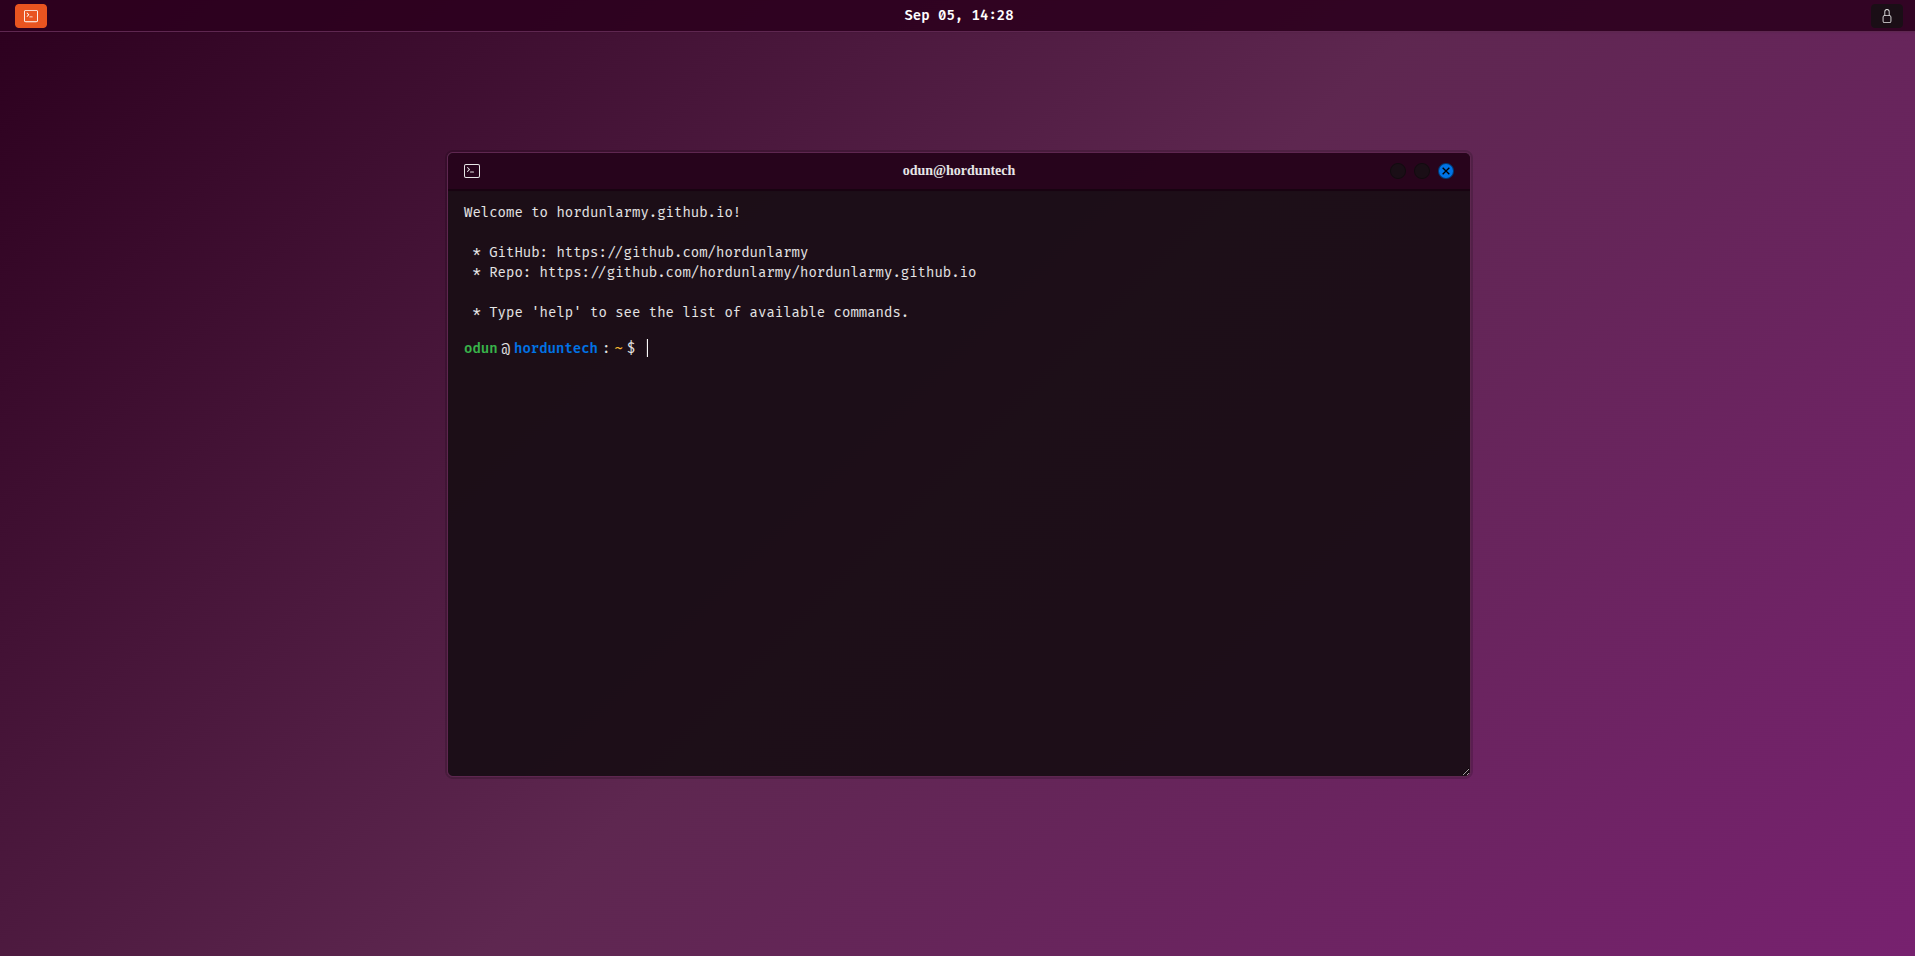
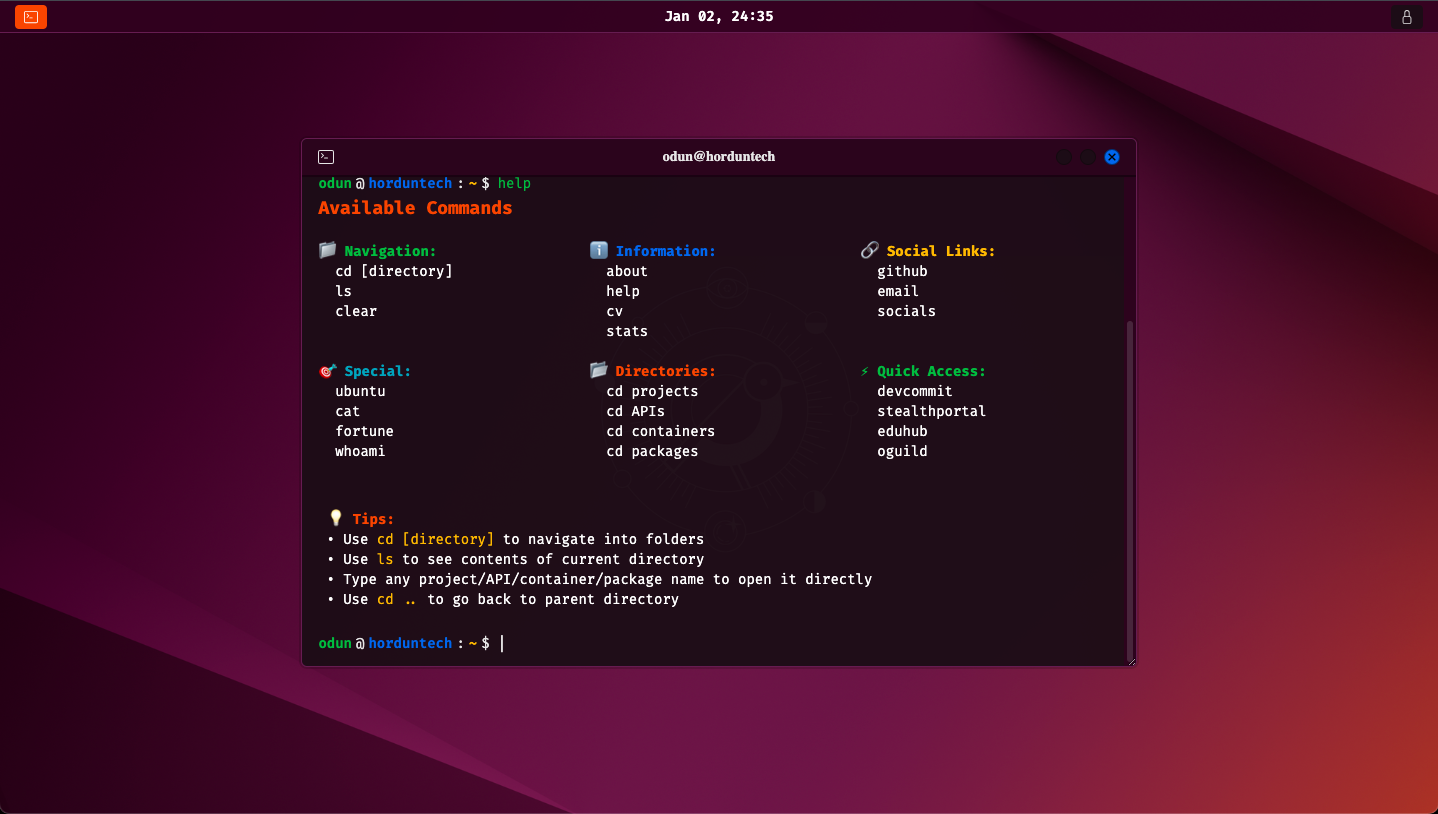
feat(ui): Implement dynamic background and refine terminal dragging behavior.

diff --git a/src/services/notificationService.ts b/src/services/notificationService.ts
@@ -1,0 +1,122 @@
+/**
+ * Notification service to send unlock notifications
+ * Uses FormSubmit - a free public service that accepts anonymous POST requests
+ * Completely client-side, no credentials, webhooks, or .env files needed
+ */
+
+interface UnlockNotificationData {
+  name: string;
+  timestamp: string;
+  location?: string;
+  userAgent: string;
+  referrer: string;
+  screenResolution: string;
+  timezone: string;
+}
+
+/**
+ * Get user's approximate location based on IP using a free geolocation API
+ */
+const getUserLocation = async (): Promise<string> => {
+  try {
+    const response = await fetch('https://ipapi.co/json/');
+    const data = await response.json();
+    
+    if (data.error) {
+      return 'Unknown location';
+    }
+    
+    const locationParts = [
+      data.city,
+      data.region,
+      data.country_name,
+      data.postal && `(${data.postal})`
+    ].filter(Boolean);
+    
+    return locationParts.join(', ') || 'Unknown location';
+  } catch (error) {
+    console.error('Error fetching location:', error);
+    return 'Unknown location';
+  }
+};
+
+/**
+ * Collect all notification data
+ */
+const collectNotificationData = async (name: string): Promise<UnlockNotificationData> => {
+  const location = await getUserLocation();
+  
+  return {
+    name: name.trim() || 'Anonymous',
+    timestamp: new Date().toISOString(),
+    location,
+    userAgent: navigator.userAgent,
+    referrer: document.referrer || 'Direct access',
+    screenResolution: `${window.screen.width}x${window.screen.height}`,
+    timezone: Intl.DateTimeFormat().resolvedOptions().timeZone,
+  };
+};
+
+/**
+ * Send notification via FormSubmit
+ * FormSubmit is a free public service that accepts anonymous POST requests
+ * and forwards them as emails - no credentials needed!
+ */
+const sendFormSubmitNotification = async (data: UnlockNotificationData): Promise<void> => {
+  const email = 'horduntech@gmail.com';
+  const date = new Date(data.timestamp);
+  
+  const formData = new FormData();
+  formData.append('email', email);
+  formData.append('subject', `Website Unlock - ${data.name}`);
+  formData.append('message', `Website Unlock Notification
+
+Name: ${data.name}
+Time: ${date.toLocaleString()}
+Location: ${data.location}
+Timezone: ${data.timezone}
+Screen Resolution: ${data.screenResolution}
+Referrer: ${data.referrer}
+
+User Agent: ${data.userAgent}`);
+  
+  // FormSubmit public endpoint - no credentials needed!
+  // Format: https://formsubmit.co/{email}
+  const formSubmitUrl = `https://formsubmit.co/${email}`;
+  
+  try {
+    await fetch(formSubmitUrl, {
+      method: 'POST',
+      body: formData,
+      mode: 'no-cors', // FormSubmit accepts no-cors requests
+    });
+    
+    // With no-cors mode, we can't read the response, but that's fine
+    // The email will still be sent
+    console.log('Notification sent via FormSubmit');
+  } catch (error) {
+    console.error('Error sending notification:', error);
+    // Fail silently - don't interrupt user experience
+  }
+};
+
+/**
+ * Send unlock notification
+ * This is the main function to call when someone unlocks
+ * Completely client-side, no credentials or setup needed!
+ */
+export const sendUnlockNotification = async (name: string): Promise<void> => {
+  try {
+    const data = await collectNotificationData(name);
+    
+    // Send via FormSubmit - completely public, no credentials needed
+    await sendFormSubmitNotification(data);
+    
+    // Also log data for testing/debugging
+    console.log('Unlock notification data:', data);
+  } catch (error) {
+    console.error('Error in sendUnlockNotification:', error);
+    // Fail silently - don't interrupt user experience
+  }
+};
+

diff --git a/src/components/terminal/TerminalContainer.tsx b/src/components/terminal/TerminalContainer.tsx
@@ -1,6 +1,6 @@
 import { useKeyboardInput } from "../../hooks/useKeyboardInput";
 import { useMobileKeyboardInput } from "../../hooks/useMobileKeyboardInput";
-import { useEffect, useRef, useState } from "react";
+import { useEffect, useRef, useState, useCallback } from "react";
 import Prompt from "./Prompt";
 import TerminalTitle from "./TerminalTitle";
 import { useScrollToBottom } from "../../hooks/useScrollToBottom";
@@ -95,25 +95,23 @@ const TerminalContainer: React.FC<TerminalContainerProps> = ({ isVisible, onClos
   // Mobile input handlers are now handled by the mobile keyboard hook
 
 
-  const handleMouseDown = (e: React.MouseEvent) => {
-    if (e.target === e.currentTarget || (e.target as HTMLElement).closest('.terminal-title')) {
-      setIsDragging(true);
-      setDragStart({ x: e.clientX - position.x, y: e.clientY - position.y });
-    }
+  const handleTitleMouseDown = (e: React.MouseEvent) => {
+    // Only allow dragging from the terminal title
+    setIsDragging(true);
+    setDragStart({ x: e.clientX - position.x, y: e.clientY - position.y });
+    e.preventDefault();
   };
 
-  const handleMouseMove = (e: MouseEvent) => {
-    if (isDragging) {
-      setPosition({
-        x: e.clientX - dragStart.x,
-        y: e.clientY - dragStart.y
-      });
-    }
-  };
+  const handleMouseMove = useCallback((e: MouseEvent) => {
+    setPosition({
+      x: e.clientX - dragStart.x,
+      y: e.clientY - dragStart.y
+    });
+  }, [dragStart]);
 
-  const handleMouseUp = () => {
+  const handleMouseUp = useCallback(() => {
     setIsDragging(false);
-  };
+  }, []);
 
   useEffect(() => {
     if (isDragging) {
@@ -124,7 +122,7 @@ const TerminalContainer: React.FC<TerminalContainerProps> = ({ isVisible, onClos
         document.removeEventListener('mouseup', handleMouseUp);
       };
     }
-  }, [isDragging, dragStart]);
+  }, [isDragging, dragStart, handleMouseMove, handleMouseUp]);
 
   return (
     <section
@@ -141,7 +139,6 @@ const TerminalContainer: React.FC<TerminalContainerProps> = ({ isVisible, onClos
         marginLeft: isMobile ? '2.5vw' : 'auto',
         marginRight: isMobile ? '2.5vw' : 'auto'
       }}
-      onMouseDown={handleMouseDown}
       tabIndex={0}
       onTouchStart={() => {
         // Focus the mobile input when touched on mobile
@@ -157,6 +154,7 @@ const TerminalContainer: React.FC<TerminalContainerProps> = ({ isVisible, onClos
       <TerminalTitle
         closeTerminal={onClose}
         username={username}
+        onMouseDown={handleTitleMouseDown}
       />
 
       <div
@@ -164,7 +162,7 @@ const TerminalContainer: React.FC<TerminalContainerProps> = ({ isVisible, onClos
           overflow-y-auto terminal-scrollbar
           ${isMobile ? 'overflow-x-hidden' : ''}`}
       >
-        {isMotdVisible && <ResultDiv text={motdText()} />}
+        {isMotdVisible && <ResultDiv text={motdText(username)} />}
 
         {prompts.map((prompt) => {
           return (

diff --git a/src/const/commands.ts b/src/const/commands.ts
@@ -70,7 +70,7 @@ const packagesData = [
 
 const commands: Map<string, string> = new Map<string, string>();
 
-commands.set("motd", motdText());
+// motd is handled in getCommandByName to pass username dynamically
 commands.set("whoami", "whoami");
 commands.set("cat", "Here's a cute cat for you! 😊");
 commands.set("about", "about");
@@ -145,7 +145,7 @@ export const getCommandByName = (
         return "";
       }
       try {
-        const newPath = directoryState.changeDirectory(args[0]);
+        directoryState.changeDirectory(args[0]);
         return "";
       } catch (error) {
         return error instanceof Error ? error.message : "cd: unknown error";
@@ -177,6 +177,8 @@ export const getCommandByName = (
       return aboutText(username);
     case "whoami":
       return username;
+    case "motd":
+      return motdText(username);
   }
 
   // Check if it's a linkable item first
@@ -232,11 +234,11 @@ export const getFolderNames = (): string[] => {
   return ["projects", "APIs", "containers", "packages"];
 };
 
-export function motdText(): string {
+export function motdText(username: string = "user"): string {
   return `
     <div class="text-ubuntu-white">
       <div class="text-ubuntu-orange font-bold text-xl mb-4">
-        🌟 Welcome! 🌟
+        🌟 Welcome ${username}! 🌟
       </div>
       
       <div class="space-y-2">
@@ -245,14 +247,6 @@ export function motdText(): string {
           <span class="text-ubuntu-yellow">GitHub:</span>
           <a class="terminal-link ml-2 text-ubuntu-cyan hover:text-ubuntu-yellow" href="https://github.com/hordunlarmy" target="_blank" rel="noreferrer">
             https://github.com/hordunlarmy
-          </a>
-        </div>
-
-        <div class="flex items-center">
-          <span class="text-ubuntu-blue font-bold mr-2">💻</span>
-          <span class="text-ubuntu-yellow">Repo:</span>
-          <a class="terminal-link ml-2 text-ubuntu-cyan hover:text-ubuntu-yellow" href="https://github.com/hordunlarmy/hordunlarmy.github.io" target="_blank" rel="noreferrer">
-            https://github.com/hordunlarmy/hordunlarmy.github.io
           </a>
         </div>
       </div>

diff --git a/src/App.tsx b/src/App.tsx
@@ -3,6 +3,7 @@ import Main from "./components/layout/Main";
 import TerminalContainer from "./components/terminal/TerminalContainer";
 import TopBar from "./components/layout/TopBar";
 import LockScreen from "./components/layout/LockScreen";
+import { sendUnlockNotification } from "./services/notificationService";
 
 const App = () => {
   const [isTerminalVisible, setIsTerminalVisible] = useState<boolean>(true);
@@ -17,15 +18,20 @@ const App = () => {
     setIsLocked(!isLocked);
   };
 
-  const handleUnlock = (unlockName: string) => {
+  const handleUnlock = async (unlockName: string) => {
+    // Send notification (runs in background, doesn't block unlock)
+    sendUnlockNotification(unlockName || "Anonymous").catch(console.error);
+    
     setUsername(unlockName || "user");
     setIsLocked(false);
   };
 
   return (
     <div
-      className="w-screen h-screen overflow-hidden bg-ubuntu bg-cover 
-        bg-center flex flex-col"
+      className="w-screen h-screen overflow-hidden ubuntu-background flex flex-col relative"
+      style={{
+        backgroundImage: `url(${process.env.PUBLIC_URL}/background.png)`
+      }}
     >
       <TopBar 
         onTerminalToggle={toggleTerminal} 
@@ -33,7 +39,7 @@ const App = () => {
         onLockToggle={toggleLock}
         isLocked={isLocked}
       />
-      <div className="flex-1 flex items-center justify-center p-6">
+      <div className="flex-1 flex items-center justify-center p-6 relative z-10">
         <Main>
           <TerminalContainer 
             isVisible={isTerminalVisible}

diff --git a/src/components/terminal/TerminalTitle.tsx b/src/components/terminal/TerminalTitle.tsx
@@ -1,11 +1,11 @@
 import { FC } from "react";
 import { BsTerminal } from "react-icons/bs";
 import { GrFormClose } from "react-icons/gr";
-import { directoryState } from "../../classes/directory-state";
 
 interface TerminalTitleProps {
   closeTerminal: () => void;
   username: string;
+  onMouseDown?: (e: React.MouseEvent) => void;
 }
 
 const TerminalTitle: FC<TerminalTitleProps> = (props) => {
@@ -15,6 +15,7 @@ const TerminalTitle: FC<TerminalTitleProps> = (props) => {
         text-ubuntu-gray font-segoe font-semibold flex items-center 
         justify-between py-2.5 px-4 border-b-2 border-solid border-black/[.4]
         select-none shadow-sm relative terminal-title cursor-move"
+      onMouseDown={props.onMouseDown}
     >
       <div className="text-base">
         <BsTerminal />

diff --git a/src/components/layout/TopBar.tsx b/src/components/layout/TopBar.tsx
@@ -1,4 +1,4 @@
-import { FC, useState } from "react";
+import { FC } from "react";
 import { BsTerminal, BsLock } from "react-icons/bs";
 import { useTimeFormat } from "../../hooks/useTimeFormat";
 
@@ -15,7 +15,7 @@ const TopBar: FC<TopBarProps> = ({ onTerminalToggle, isTerminalVisible, onLockTo
   return (
     <div className="w-full h-8 bg-ubuntu-black/[.90] border-b border-ubuntu-border 
       flex items-center justify-between px-4 text-ubuntu-gray text-sm font-fira-code
-      select-none shadow-sm">
+      select-none shadow-sm relative z-20">
       <button
         onClick={onTerminalToggle}
         className={`flex items-center justify-center w-8 h-6 rounded transition-all duration-150

diff --git a/src/index.css b/src/index.css
@@ -187,3 +187,12 @@
 .project-other {
   @apply hover:underline text-ubuntu-cyan cursor-default whitespace-nowrap;
 }
+
+/* Ubuntu background with curves and crown */
+.ubuntu-background {
+  position: relative;
+  background-size: cover;
+  background-position: center;
+  background-repeat: no-repeat;
+  overflow: hidden;
+}

diff --git a/src/hooks/useMobileKeyboardInput.ts b/src/hooks/useMobileKeyboardInput.ts
@@ -1,4 +1,4 @@
-import { useCallback, useEffect, useState } from "react";
+import { useCallback, useState } from "react";
 import { getCommandNames, getFolderNames } from "../const/commands";
 import { commandHistory } from "../classes/command-history";
 

diff --git a/src/components/terminal/Prompt.tsx b/src/components/terminal/Prompt.tsx
@@ -1,6 +1,5 @@
 import { FC, useState, useCallback } from "react";
 import { getCommandNames } from "../../const/commands";
-import { directoryState } from "../../classes/directory-state";
 
 interface PromptProps {
   text: string;
